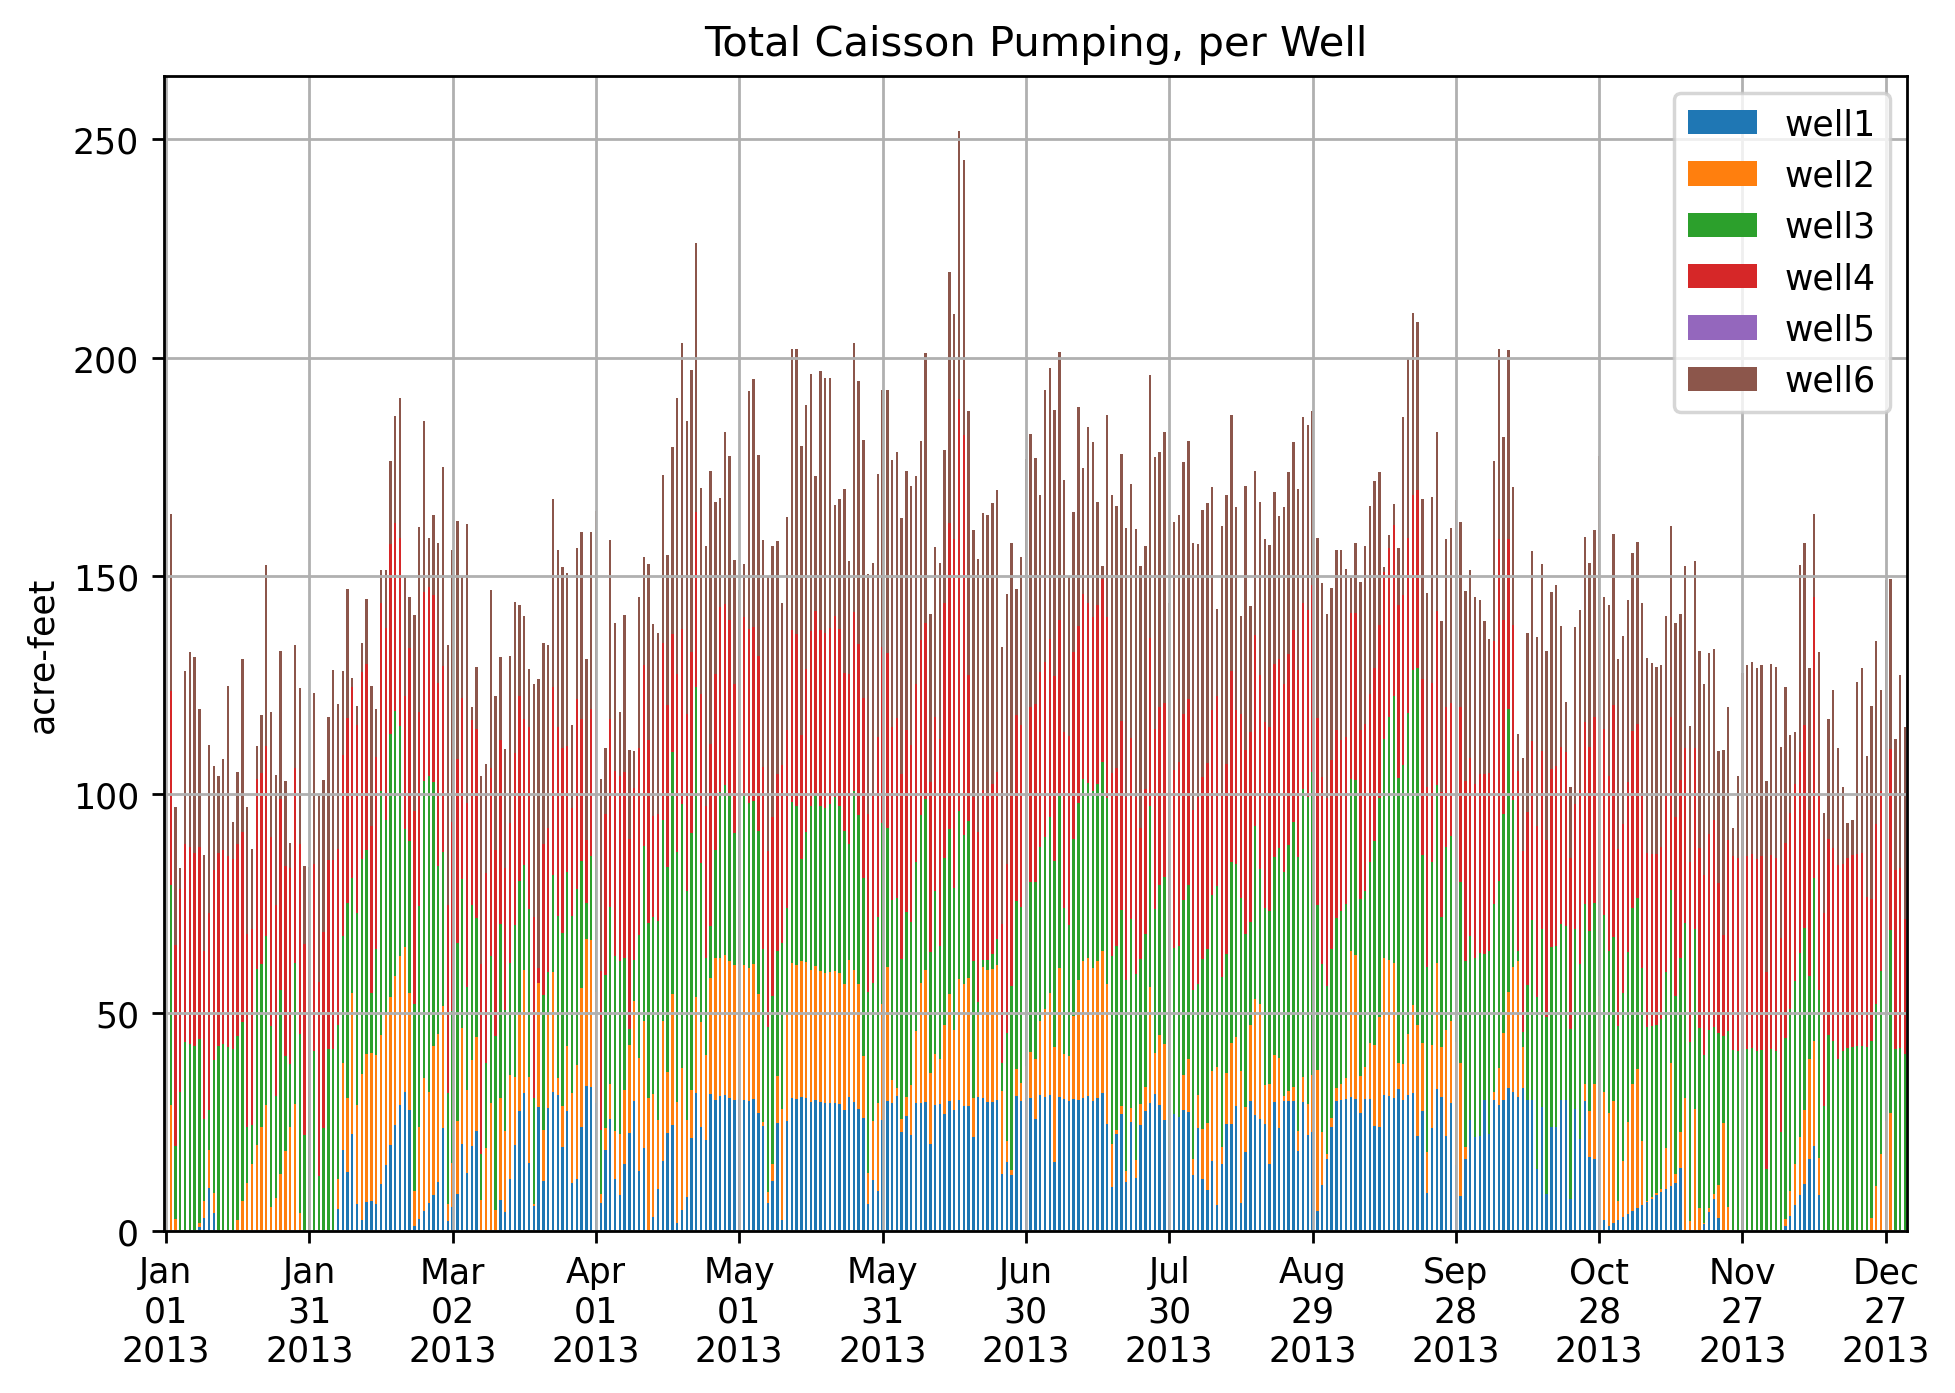
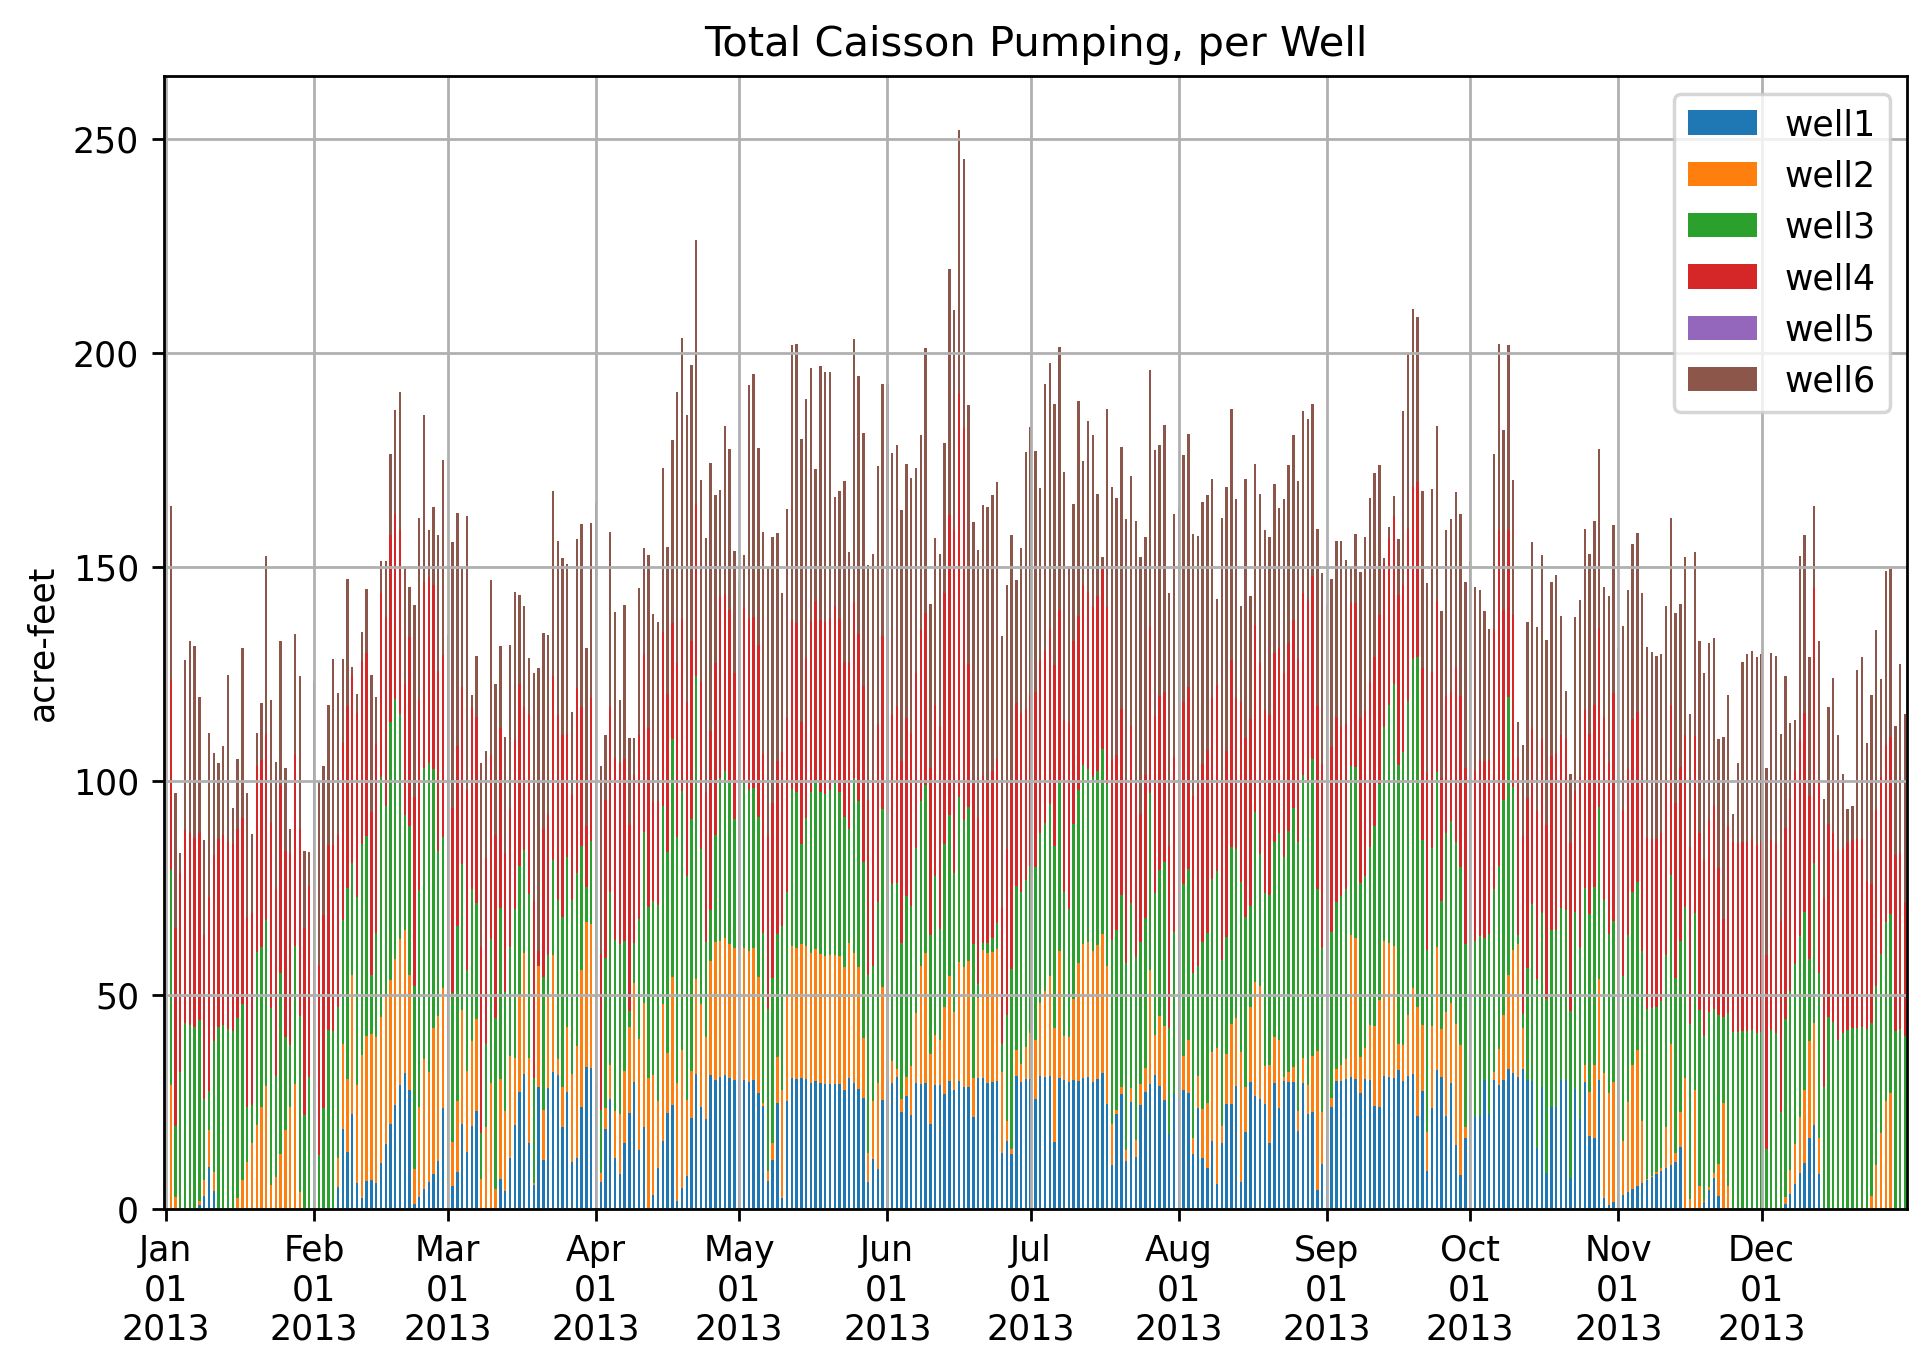
pumping plots improved

diff --git a/June2012/subindex.html b/June2012/subindex.html
@@ -34,7 +34,8 @@
 <a href="dam_elevation.png">Dam Elevation<br></a>
 
 <h1>Inputs - Pumping and Ponds</h1>
-<a href="pumping.png">Pumping<br></a>
+<a href="pumping.png">Yearly Pumping<br></a>
+<a href="pumping_cum.png">Cumulative Yearly Pumping<br></a>
 <a href="pondQ.png">Pond Inflows<br></a>
 <a href="pondloc_inflow.png">Pond Map<br></a>
 
@@ -53,12 +54,13 @@
 <a href="reach_flows_mid.png">Reach Flows SWR, Middle<br></a>
 <a href="SWR_reach_all.png">Reach Statistics<br></a>
 
+<!--
 <h1>Results - Ponds (no longer created - using RCH package instead)</h1>
-<a href="ISWRPQAQ_ponds.png">N/A. SWR Pond Fluxes and Heads<br></a>
-<a href="SWR_STREAM STAGES_ponds.png">N/A. SWR Stages<br></a>
-<a href="ISWRPQAQ_stats_ponds.html">N/A. Pond Stats<br></a>
-<a href="SWR_reach_all STAGES_ponds.png">N/A. Pond Statistics<br></a>
-<a href="pond_wl.png">N/A. Pond Depths<br></a>
+<a href="ISWRPQAQ_ponds.png"><p style="text-decoration: line-through;">N/A. SWR Pond Fluxes and Heads<br></p></a>
+<a href="SWR_STREAM STAGES_ponds.png"><p style="text-decoration: line-through;">N/A. SWR Stages<<br></p></a>
+<a href="ISWRPQAQ_stats_ponds.html"><p style="text-decoration: line-through;">N/A. Pond Stats<<br></p></a>
+<a href="SWR_reach_all STAGES_ponds.png"><p style="text-decoration: line-through;">N/A. Pond Statistics<br></p></a>
+<a href="pond_wl.png"><p style="text-decoration: line-through;">N/A. Pond Depths<<br></p></a>-->
 
 <h1>Results - RDS Stage</h1>
 <a href="rds_stage.png">RDS Stage<br></a>

diff --git a/June2013/subindex.html b/June2013/subindex.html
@@ -34,7 +34,8 @@
 <a href="dam_elevation.png">Dam Elevation<br></a>
 
 <h1>Inputs - Pumping and Ponds</h1>
-<a href="pumping.png">Pumping<br></a>
+<a href="pumping.png">Yearly Pumping<br></a>
+<a href="pumping_cum.png">Cumulative Yearly Pumping<br></a>
 <a href="pondQ.png">Pond Inflows<br></a>
 <a href="pondloc_inflow.png">Pond Map<br></a>
 
@@ -53,12 +54,13 @@
 <a href="reach_flows_mid.png">Reach Flows SWR, Middle<br></a>
 <a href="SWR_reach_all.png">Reach Statistics<br></a>
 
+<!--
 <h1>Results - Ponds (no longer created - using RCH package instead)</h1>
-<a href="ISWRPQAQ_ponds.png">N/A. SWR Pond Fluxes and Heads<br></a>
-<a href="SWR_STREAM STAGES_ponds.png">N/A. SWR Stages<br></a>
-<a href="ISWRPQAQ_stats_ponds.html">N/A. Pond Stats<br></a>
-<a href="SWR_reach_all STAGES_ponds.png">N/A. Pond Statistics<br></a>
-<a href="pond_wl.png">N/A. Pond Depths<br></a>
+<a href="ISWRPQAQ_ponds.png"><p style="text-decoration: line-through;">N/A. SWR Pond Fluxes and Heads<br></p></a>
+<a href="SWR_STREAM STAGES_ponds.png"><p style="text-decoration: line-through;">N/A. SWR Stages<<br></p></a>
+<a href="ISWRPQAQ_stats_ponds.html"><p style="text-decoration: line-through;">N/A. Pond Stats<<br></p></a>
+<a href="SWR_reach_all STAGES_ponds.png"><p style="text-decoration: line-through;">N/A. Pond Statistics<br></p></a>
+<a href="pond_wl.png"><p style="text-decoration: line-through;">N/A. Pond Depths<<br></p></a>-->
 
 <h1>Results - RDS Stage</h1>
 <a href="rds_stage.png">RDS Stage<br></a>

diff --git a/June2014/subindex.html b/June2014/subindex.html
@@ -34,7 +34,8 @@
 <a href="dam_elevation.png">Dam Elevation<br></a>
 
 <h1>Inputs - Pumping and Ponds</h1>
-<a href="pumping.png">Pumping<br></a>
+<a href="pumping.png">Yearly Pumping<br></a>
+<a href="pumping_cum.png">Cumulative Yearly Pumping<br></a>
 <a href="pondQ.png">Pond Inflows<br></a>
 <a href="pondloc_inflow.png">Pond Map<br></a>
 
@@ -53,12 +54,13 @@
 <a href="reach_flows_mid.png">Reach Flows SWR, Middle<br></a>
 <a href="SWR_reach_all.png">Reach Statistics<br></a>
 
+<!--
 <h1>Results - Ponds (no longer created - using RCH package instead)</h1>
-<a href="ISWRPQAQ_ponds.png">N/A. SWR Pond Fluxes and Heads<br></a>
-<a href="SWR_STREAM STAGES_ponds.png">N/A. SWR Stages<br></a>
-<a href="ISWRPQAQ_stats_ponds.html">N/A. Pond Stats<br></a>
-<a href="SWR_reach_all STAGES_ponds.png">N/A. Pond Statistics<br></a>
-<a href="pond_wl.png">N/A. Pond Depths<br></a>
+<a href="ISWRPQAQ_ponds.png"><p style="text-decoration: line-through;">N/A. SWR Pond Fluxes and Heads<br></p></a>
+<a href="SWR_STREAM STAGES_ponds.png"><p style="text-decoration: line-through;">N/A. SWR Stages<<br></p></a>
+<a href="ISWRPQAQ_stats_ponds.html"><p style="text-decoration: line-through;">N/A. Pond Stats<<br></p></a>
+<a href="SWR_reach_all STAGES_ponds.png"><p style="text-decoration: line-through;">N/A. Pond Statistics<br></p></a>
+<a href="pond_wl.png"><p style="text-decoration: line-through;">N/A. Pond Depths<<br></p></a>-->
 
 <h1>Results - RDS Stage</h1>
 <a href="rds_stage.png">RDS Stage<br></a>

diff --git a/June2015/subindex.html b/June2015/subindex.html
@@ -34,7 +34,8 @@
 <a href="dam_elevation.png">Dam Elevation<br></a>
 
 <h1>Inputs - Pumping and Ponds</h1>
-<a href="pumping.png">Pumping<br></a>
+<a href="pumping.png">Yearly Pumping<br></a>
+<a href="pumping_cum.png">Cumulative Yearly Pumping<br></a>
 <a href="pondQ.png">Pond Inflows<br></a>
 <a href="pondloc_inflow.png">Pond Map<br></a>
 
@@ -53,12 +54,13 @@
 <a href="reach_flows_mid.png">Reach Flows SWR, Middle<br></a>
 <a href="SWR_reach_all.png">Reach Statistics<br></a>
 
+<!--
 <h1>Results - Ponds (no longer created - using RCH package instead)</h1>
-<a href="ISWRPQAQ_ponds.png">N/A. SWR Pond Fluxes and Heads<br></a>
-<a href="SWR_STREAM STAGES_ponds.png">N/A. SWR Stages<br></a>
-<a href="ISWRPQAQ_stats_ponds.html">N/A. Pond Stats<br></a>
-<a href="SWR_reach_all STAGES_ponds.png">N/A. Pond Statistics<br></a>
-<a href="pond_wl.png">N/A. Pond Depths<br></a>
+<a href="ISWRPQAQ_ponds.png"><p style="text-decoration: line-through;">N/A. SWR Pond Fluxes and Heads<br></p></a>
+<a href="SWR_STREAM STAGES_ponds.png"><p style="text-decoration: line-through;">N/A. SWR Stages<<br></p></a>
+<a href="ISWRPQAQ_stats_ponds.html"><p style="text-decoration: line-through;">N/A. Pond Stats<<br></p></a>
+<a href="SWR_reach_all STAGES_ponds.png"><p style="text-decoration: line-through;">N/A. Pond Statistics<br></p></a>
+<a href="pond_wl.png"><p style="text-decoration: line-through;">N/A. Pond Depths<<br></p></a>-->
 
 <h1>Results - RDS Stage</h1>
 <a href="rds_stage.png">RDS Stage<br></a>

diff --git a/June2016/subindex.html b/June2016/subindex.html
@@ -34,7 +34,8 @@
 <a href="dam_elevation.png">Dam Elevation<br></a>
 
 <h1>Inputs - Pumping and Ponds</h1>
-<a href="pumping.png">Pumping<br></a>
+<a href="pumping.png">Yearly Pumping<br></a>
+<a href="pumping_cum.png">Cumulative Yearly Pumping<br></a>
 <a href="pondQ.png">Pond Inflows<br></a>
 <a href="pondloc_inflow.png">Pond Map<br></a>
 
@@ -53,12 +54,13 @@
 <a href="reach_flows_mid.png">Reach Flows SWR, Middle<br></a>
 <a href="SWR_reach_all.png">Reach Statistics<br></a>
 
+<!--
 <h1>Results - Ponds (no longer created - using RCH package instead)</h1>
-<a href="ISWRPQAQ_ponds.png">N/A. SWR Pond Fluxes and Heads<br></a>
-<a href="SWR_STREAM STAGES_ponds.png">N/A. SWR Stages<br></a>
-<a href="ISWRPQAQ_stats_ponds.html">N/A. Pond Stats<br></a>
-<a href="SWR_reach_all STAGES_ponds.png">N/A. Pond Statistics<br></a>
-<a href="pond_wl.png">N/A. Pond Depths<br></a>
+<a href="ISWRPQAQ_ponds.png"><p style="text-decoration: line-through;">N/A. SWR Pond Fluxes and Heads<br></p></a>
+<a href="SWR_STREAM STAGES_ponds.png"><p style="text-decoration: line-through;">N/A. SWR Stages<<br></p></a>
+<a href="ISWRPQAQ_stats_ponds.html"><p style="text-decoration: line-through;">N/A. Pond Stats<<br></p></a>
+<a href="SWR_reach_all STAGES_ponds.png"><p style="text-decoration: line-through;">N/A. Pond Statistics<br></p></a>
+<a href="pond_wl.png"><p style="text-decoration: line-through;">N/A. Pond Depths<<br></p></a>-->
 
 <h1>Results - RDS Stage</h1>
 <a href="rds_stage.png">RDS Stage<br></a>

diff --git a/June2017/subindex.html b/June2017/subindex.html
@@ -34,7 +34,8 @@
 <a href="dam_elevation.png">Dam Elevation<br></a>
 
 <h1>Inputs - Pumping and Ponds</h1>
-<a href="pumping.png">Pumping<br></a>
+<a href="pumping.png">Yearly Pumping<br></a>
+<a href="pumping_cum.png">Cumulative Yearly Pumping<br></a>
 <a href="pondQ.png">Pond Inflows<br></a>
 <a href="pondloc_inflow.png">Pond Map<br></a>
 
@@ -53,12 +54,13 @@
 <a href="reach_flows_mid.png">Reach Flows SWR, Middle<br></a>
 <a href="SWR_reach_all.png">Reach Statistics<br></a>
 
+<!--
 <h1>Results - Ponds (no longer created - using RCH package instead)</h1>
-<a href="ISWRPQAQ_ponds.png">N/A. SWR Pond Fluxes and Heads<br></a>
-<a href="SWR_STREAM STAGES_ponds.png">N/A. SWR Stages<br></a>
-<a href="ISWRPQAQ_stats_ponds.html">N/A. Pond Stats<br></a>
-<a href="SWR_reach_all STAGES_ponds.png">N/A. Pond Statistics<br></a>
-<a href="pond_wl.png">N/A. Pond Depths<br></a>
+<a href="ISWRPQAQ_ponds.png"><p style="text-decoration: line-through;">N/A. SWR Pond Fluxes and Heads<br></p></a>
+<a href="SWR_STREAM STAGES_ponds.png"><p style="text-decoration: line-through;">N/A. SWR Stages<<br></p></a>
+<a href="ISWRPQAQ_stats_ponds.html"><p style="text-decoration: line-through;">N/A. Pond Stats<<br></p></a>
+<a href="SWR_reach_all STAGES_ponds.png"><p style="text-decoration: line-through;">N/A. Pond Statistics<br></p></a>
+<a href="pond_wl.png"><p style="text-decoration: line-through;">N/A. Pond Depths<<br></p></a>-->
 
 <h1>Results - RDS Stage</h1>
 <a href="rds_stage.png">RDS Stage<br></a>

diff --git a/June2018/subindex.html b/June2018/subindex.html
@@ -34,7 +34,8 @@
 <a href="dam_elevation.png">Dam Elevation<br></a>
 
 <h1>Inputs - Pumping and Ponds</h1>
-<a href="pumping.png">Pumping<br></a>
+<a href="pumping.png">Yearly Pumping<br></a>
+<a href="pumping_cum.png">Cumulative Yearly Pumping<br></a>
 <a href="pondQ.png">Pond Inflows<br></a>
 <a href="pondloc_inflow.png">Pond Map<br></a>
 
@@ -53,12 +54,13 @@
 <a href="reach_flows_mid.png">Reach Flows SWR, Middle<br></a>
 <a href="SWR_reach_all.png">Reach Statistics<br></a>
 
+<!--
 <h1>Results - Ponds (no longer created - using RCH package instead)</h1>
-<a href="ISWRPQAQ_ponds.png">N/A. SWR Pond Fluxes and Heads<br></a>
-<a href="SWR_STREAM STAGES_ponds.png">N/A. SWR Stages<br></a>
-<a href="ISWRPQAQ_stats_ponds.html">N/A. Pond Stats<br></a>
-<a href="SWR_reach_all STAGES_ponds.png">N/A. Pond Statistics<br></a>
-<a href="pond_wl.png">N/A. Pond Depths<br></a>
+<a href="ISWRPQAQ_ponds.png"><p style="text-decoration: line-through;">N/A. SWR Pond Fluxes and Heads<br></p></a>
+<a href="SWR_STREAM STAGES_ponds.png"><p style="text-decoration: line-through;">N/A. SWR Stages<<br></p></a>
+<a href="ISWRPQAQ_stats_ponds.html"><p style="text-decoration: line-through;">N/A. Pond Stats<<br></p></a>
+<a href="SWR_reach_all STAGES_ponds.png"><p style="text-decoration: line-through;">N/A. Pond Statistics<br></p></a>
+<a href="pond_wl.png"><p style="text-decoration: line-through;">N/A. Pond Depths<<br></p></a>-->
 
 <h1>Results - RDS Stage</h1>
 <a href="rds_stage.png">RDS Stage<br></a>

diff --git a/June2019/subindex.html b/June2019/subindex.html
@@ -34,7 +34,8 @@
 <a href="dam_elevation.png">Dam Elevation<br></a>
 
 <h1>Inputs - Pumping and Ponds</h1>
-<a href="pumping.png">Pumping<br></a>
+<a href="pumping.png">Yearly Pumping<br></a>
+<a href="pumping_cum.png">Cumulative Yearly Pumping<br></a>
 <a href="pondQ.png">Pond Inflows<br></a>
 <a href="pondloc_inflow.png">Pond Map<br></a>
 
@@ -53,12 +54,13 @@
 <a href="reach_flows_mid.png">Reach Flows SWR, Middle<br></a>
 <a href="SWR_reach_all.png">Reach Statistics<br></a>
 
+<!--
 <h1>Results - Ponds (no longer created - using RCH package instead)</h1>
-<a href="ISWRPQAQ_ponds.png">N/A. SWR Pond Fluxes and Heads<br></a>
-<a href="SWR_STREAM STAGES_ponds.png">N/A. SWR Stages<br></a>
-<a href="ISWRPQAQ_stats_ponds.html">N/A. Pond Stats<br></a>
-<a href="SWR_reach_all STAGES_ponds.png">N/A. Pond Statistics<br></a>
-<a href="pond_wl.png">N/A. Pond Depths<br></a>
+<a href="ISWRPQAQ_ponds.png"><p style="text-decoration: line-through;">N/A. SWR Pond Fluxes and Heads<br></p></a>
+<a href="SWR_STREAM STAGES_ponds.png"><p style="text-decoration: line-through;">N/A. SWR Stages<<br></p></a>
+<a href="ISWRPQAQ_stats_ponds.html"><p style="text-decoration: line-through;">N/A. Pond Stats<<br></p></a>
+<a href="SWR_reach_all STAGES_ponds.png"><p style="text-decoration: line-through;">N/A. Pond Statistics<br></p></a>
+<a href="pond_wl.png"><p style="text-decoration: line-through;">N/A. Pond Depths<<br></p></a>-->
 
 <h1>Results - RDS Stage</h1>
 <a href="rds_stage.png">RDS Stage<br></a>

diff --git a/June2020/subindex.html b/June2020/subindex.html
@@ -34,7 +34,8 @@
 <a href="dam_elevation.png">Dam Elevation<br></a>
 
 <h1>Inputs - Pumping and Ponds</h1>
-<a href="pumping.png">Pumping<br></a>
+<a href="pumping.png">Yearly Pumping<br></a>
+<a href="pumping_cum.png">Cumulative Yearly Pumping<br></a>
 <a href="pondQ.png">Pond Inflows<br></a>
 <a href="pondloc_inflow.png">Pond Map<br></a>
 
@@ -53,12 +54,13 @@
 <a href="reach_flows_mid.png">Reach Flows SWR, Middle<br></a>
 <a href="SWR_reach_all.png">Reach Statistics<br></a>
 
+<!--
 <h1>Results - Ponds (no longer created - using RCH package instead)</h1>
-<a href="ISWRPQAQ_ponds.png">N/A. SWR Pond Fluxes and Heads<br></a>
-<a href="SWR_STREAM STAGES_ponds.png">N/A. SWR Stages<br></a>
-<a href="ISWRPQAQ_stats_ponds.html">N/A. Pond Stats<br></a>
-<a href="SWR_reach_all STAGES_ponds.png">N/A. Pond Statistics<br></a>
-<a href="pond_wl.png">N/A. Pond Depths<br></a>
+<a href="ISWRPQAQ_ponds.png"><p style="text-decoration: line-through;">N/A. SWR Pond Fluxes and Heads<br></p></a>
+<a href="SWR_STREAM STAGES_ponds.png"><p style="text-decoration: line-through;">N/A. SWR Stages<<br></p></a>
+<a href="ISWRPQAQ_stats_ponds.html"><p style="text-decoration: line-through;">N/A. Pond Stats<<br></p></a>
+<a href="SWR_reach_all STAGES_ponds.png"><p style="text-decoration: line-through;">N/A. Pond Statistics<br></p></a>
+<a href="pond_wl.png"><p style="text-decoration: line-through;">N/A. Pond Depths<<br></p></a>-->
 
 <h1>Results - RDS Stage</h1>
 <a href="rds_stage.png">RDS Stage<br></a>
